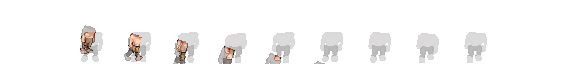
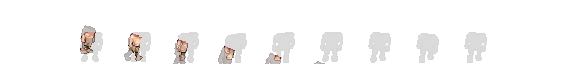
Fix frame loss in diagonal generation - preserve all 9 frames
- Changed generate_blended_diagonal to process frames individually
- Prevents edge frames (0 and 8) from being cut off
- Each frame is transformed and centered independently
- Ensures consistent pixel counts across all 9 animation frames
- Critical for HD-2D games requiring clean, non-fading sprites

Generated with [Claude Code](https://claude.com/claude-code)

diff --git a/forge_scripts/antigravity.py b/forge_scripts/antigravity.py
@@ -241,6 +241,7 @@ def generate_blended_diagonal(image, direction='ne', width_squash=DIAGONAL_WIDTH
     """
     Generate a blended diagonal view by compositing two cardinal directions.
     Creates 8 truly unique directional sprites.
+    Processes each frame individually to prevent edge frame loss.
 
     Args:
         image: PIL.Image (LPC format with 4 rows: S, W, N, E)
@@ -250,7 +251,7 @@ def generate_blended_diagonal(image, direction='ne', width_squash=DIAGONAL_WIDTH
         blend_ratio: Primary/secondary blend ratio (0.0-1.0, default 0.6 = 60% primary, 40% secondary)
 
     Returns:
-        PIL.Image: Blended diagonal sprite
+        PIL.Image: Blended diagonal sprite row with all frames preserved
     """
     width, height = image.size
 
@@ -276,72 +277,80 @@ def generate_blended_diagonal(image, direction='ne', width_squash=DIAGONAL_WIDTH
     primary_row = extract_sprite_row(image, primary_row_idx)
     secondary_row = extract_sprite_row(image, secondary_row_idx)
 
-    # Transform primary row (side view - East or West)
-    transform_width, transform_height = primary_row.size
-    new_width = int(transform_width * width_squash)
+    # Determine frame size (typically 64x64 for LPC sprites)
+    row_height = primary_row.height
+    frame_size = row_height  # Assuming square frames
+    num_frames = primary_row.width // frame_size
 
-    # Primary transformation (stronger horizontal shear for side view + vertical skew)
-    primary_squashed = primary_row.resize((new_width, transform_height), Image.NEAREST)
+    # Create output canvas for all frames
+    output_row = Image.new('RGBA', (primary_row.width, row_height), (0, 0, 0, 0))
 
-    # Add vertical skew to distinguish up (NE/NW) from down (SE/SW) diagonals
-    vertical_skew = 0.15  # Strength of vertical perspective
+    # Process each frame individually to prevent edge loss
+    for frame_idx in range(num_frames):
+        x_start = frame_idx * frame_size
+        x_end = x_start + frame_size
 
-    if direction in ['ne', 'nw']:
-        # Up diagonals: lean back/upward (negative vertical skew)
-        if direction == 'ne':
-            primary_matrix = (1, shear_amount, 0, -vertical_skew, 1, transform_height * vertical_skew)
-        else:  # nw
-            primary_matrix = (1, -shear_amount, new_width * shear_amount, -vertical_skew, 1, transform_height * vertical_skew)
-    else:
-        # Down diagonals: lean forward/downward (positive vertical skew)
-        if direction == 'se':
-            primary_matrix = (1, shear_amount, 0, vertical_skew, 1, 0)
-        else:  # sw
-            primary_matrix = (1, -shear_amount, new_width * shear_amount, vertical_skew, 1, 0)
+        # Extract individual frames
+        primary_frame = primary_row.crop((x_start, 0, x_end, row_height))
+        secondary_frame = secondary_row.crop((x_start, 0, x_end, row_height))
 
-    primary_transformed = primary_squashed.transform(
-        primary_squashed.size,
-        Image.AFFINE,
-        primary_matrix,
-        resample=Image.NEAREST
-    )
+        # Transform this frame
+        new_width = int(frame_size * width_squash)
 
-    # Transform secondary row (front/back view - North or South)
-    # Apply gentler transformation to secondary for depth perspective
-    secondary_squashed = secondary_row.resize((new_width, transform_height), Image.NEAREST)
+        # Primary transformation
+        primary_squashed = primary_frame.resize((new_width, frame_size), Image.NEAREST)
 
-    # Secondary gets subtle horizontal shear + vertical perspective
-    if direction in ['ne', 'se']:
-        secondary_matrix = (1, shear_amount * 0.5, 0, 0, 1, 0)  # Gentler slant
-    else:
-        secondary_matrix = (1, -shear_amount * 0.5, new_width * shear_amount * 0.5, 0, 1, 0)
+        # Add vertical skew to distinguish up (NE/NW) from down (SE/SW) diagonals
+        vertical_skew = 0.15
 
-    secondary_transformed = secondary_squashed.transform(
-        secondary_squashed.size,
-        Image.AFFINE,
-        secondary_matrix,
-        resample=Image.NEAREST
-    )
+        if direction in ['ne', 'nw']:
+            # Up diagonals: lean back/upward (negative vertical skew)
+            if direction == 'ne':
+                primary_matrix = (1, shear_amount, 0, -vertical_skew, 1, frame_size * vertical_skew)
+            else:  # nw
+                primary_matrix = (1, -shear_amount, new_width * shear_amount, -vertical_skew, 1, frame_size * vertical_skew)
+        else:
+            # Down diagonals: lean forward/downward (positive vertical skew)
+            if direction == 'se':
+                primary_matrix = (1, shear_amount, 0, vertical_skew, 1, 0)
+            else:  # sw
+                primary_matrix = (1, -shear_amount, new_width * shear_amount, vertical_skew, 1, 0)
 
-    # Blend the two transformed images
-    # Use alpha blending: result = primary * blend_ratio + secondary * (1 - blend_ratio)
-    blended = Image.blend(secondary_transformed, primary_transformed, blend_ratio)
+        primary_transformed = primary_squashed.transform(
+            primary_squashed.size,
+            Image.AFFINE,
+            primary_matrix,
+            resample=Image.NEAREST
+        )
 
-    # Re-center and normalize dimensions for paper doll layering
-    # This ensures all diagonal sprites have identical dimensions and alignment
-    original_width, original_height = primary_row.size
+        # Transform secondary frame
+        secondary_squashed = secondary_frame.resize((new_width, frame_size), Image.NEAREST)
 
-    # Create a new canvas with original dimensions
-    centered_canvas = Image.new('RGBA', (original_width, transform_height), (0, 0, 0, 0))
+        if direction in ['ne', 'se']:
+            secondary_matrix = (1, shear_amount * 0.5, 0, 0, 1, 0)
+        else:
+            secondary_matrix = (1, -shear_amount * 0.5, new_width * shear_amount * 0.5, 0, 1, 0)
 
-    # Calculate centering offset
-    blended_width = blended.width
-    x_offset = (original_width - blended_width) // 2
+        secondary_transformed = secondary_squashed.transform(
+            secondary_squashed.size,
+            Image.AFFINE,
+            secondary_matrix,
+            resample=Image.NEAREST
+        )
 
-    # Paste blended sprite centered on canvas
-    centered_canvas.paste(blended, (x_offset, 0), blended)
+        # Blend the two transformed frames
+        blended_frame = Image.blend(secondary_transformed, primary_transformed, blend_ratio)
 
-    return centered_canvas
+        # Center this frame in a frame_size x frame_size canvas
+        frame_canvas = Image.new('RGBA', (frame_size, frame_size), (0, 0, 0, 0))
+        blended_width = blended_frame.width
+        x_offset = (frame_size - blended_width) // 2
+        frame_canvas.paste(blended_frame, (x_offset, 0), blended_frame)
+
+        # Paste this frame into the output row
+        output_row.paste(frame_canvas, (x_start, 0), frame_canvas)
+
+    return output_row
 
 
 def generate_diagonal_variant(source_file, output_file, direction='ne', use_blending=True):
